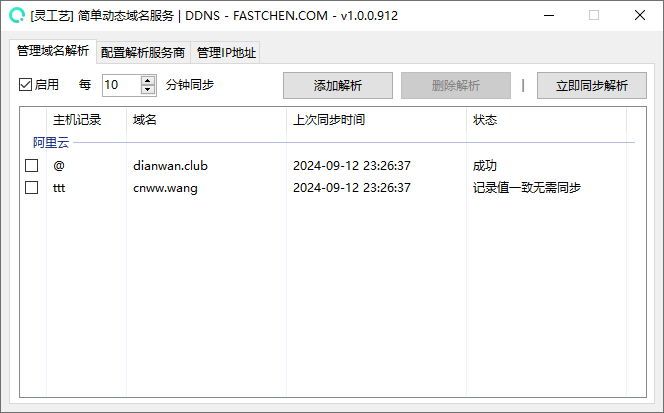
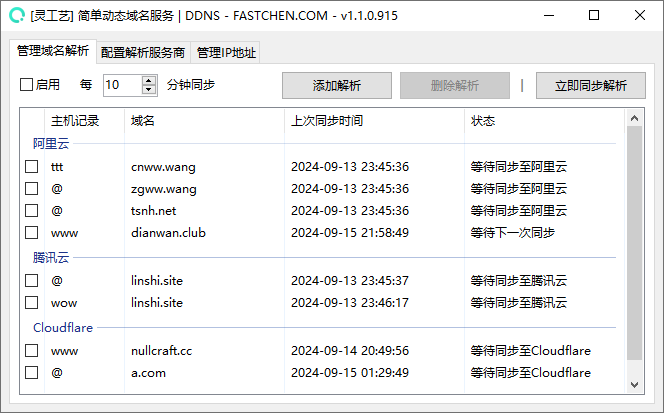
#85: update easyddns page

diff --git a/software/easyddns/update.md b/software/easyddns/update.md
@@ -10,6 +10,13 @@ description: EasyDDNS Update
 
 ## 更新记录
 
+### v1.1.0.915 (2024-09-15)
+
+<mark style="color:blue;">**`[更新]`**</mark>
+
+* 新增服务商：腾讯云 DNS 解析
+* 新增服务商：Cloudflare DNS 解析
+
 ### v1.0.0.912 (2024-09-12) <a href="#v0.0.1.1213-2023-12-13" id="v0.0.1.1213-2023-12-13"></a>
 
 <mark style="color:purple;">**`[发布]`**</mark>
